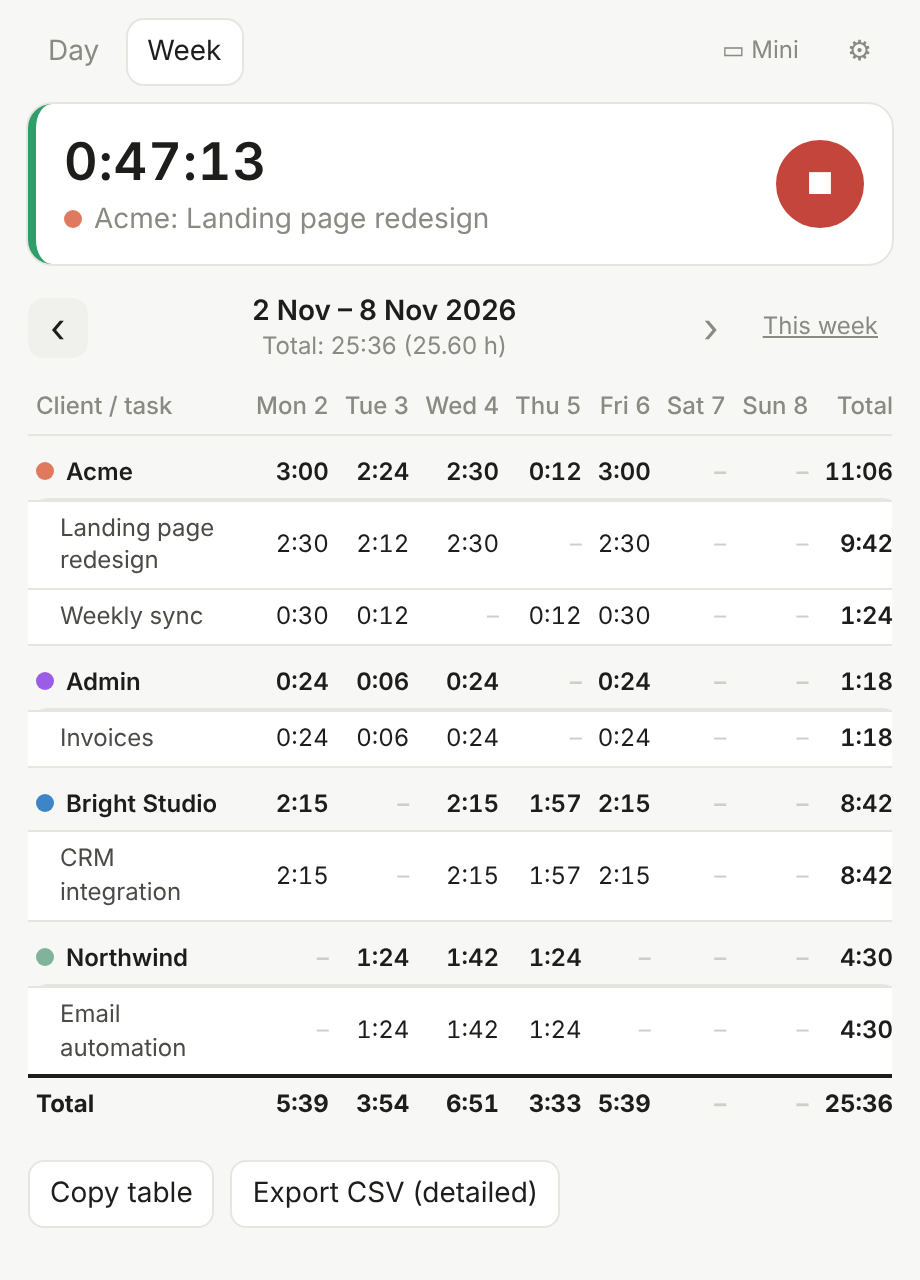
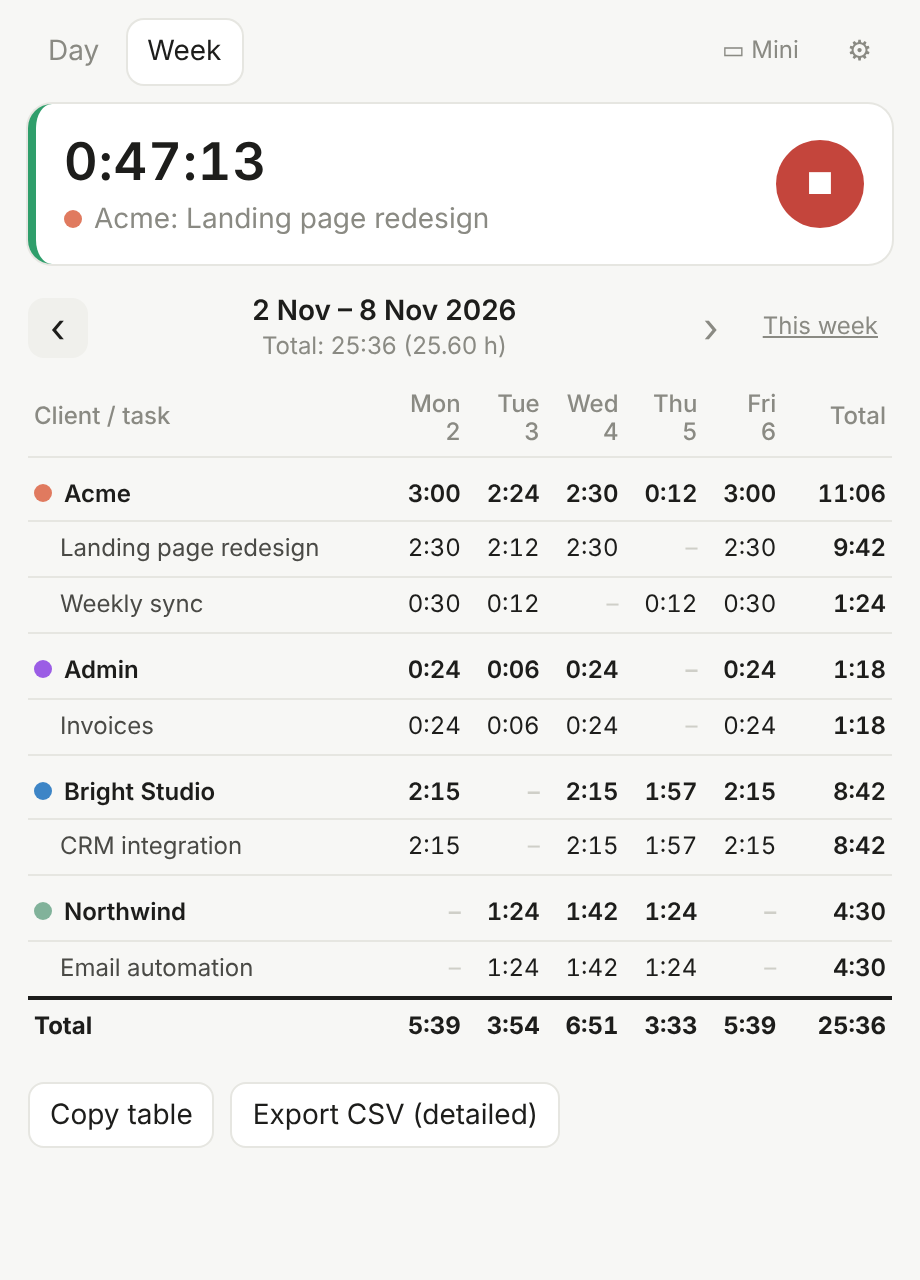
1.0.3: delete clients/tasks with confirmation; week table fits narrow window
- Delete button next to Hide, confirmation shows how much tracked time will be lost
- Week: hide empty days-off columns, sticky name and Total columns

Claude-Session: https://claude.ai/code/session_01L7nqV67o9vX3k8GaG591Vb

diff --git a/src/app.js b/src/app.js
@@ -632,27 +632,41 @@ function renderWeek() {
   const table = $('weekTable');
   table.innerHTML = '';
   const names = tr('weekdays');
-  const cell = (ms, cls = '') => el('td', { class: cls + (ms ? '' : ' zero') }, ms ? fmtDur(ms) : '–');
-  table.append(el('tr', {}, el('th', {}, tr('clientTask')),
-    days.map((k, i) => el('th', { class: 'day' + (k === todayKey() ? ' today' : ''), title: tr('openDay'), onclick: () => { viewDay = k; setView('day'); } }, `${names[i]} ${new Date(startOfKey(k)).getDate()}`)),
-    el('th', {}, tr('totalCol'))));
+  const sum = (arr) => arr.reduce((s, v) => s + v, 0);
 
+  // итоги по дням — чтобы понять, какие колонки показывать
   const totals = Array(7).fill(0);
+  for (const cid of Object.keys(rows)) for (const arr of Object.values(rows[cid])) arr.forEach((v, i) => { totals[i] += v; });
+  // выходные без записей прячем — таблица помещается в узкое окно
+  const vis = days.map((k, i) => i).filter((i) => isWorkDay(startOfKey(days[i])) || totals[i] > 0);
+  const pick = (arr) => vis.map((i) => arr[i]);
+
+  const cell = (ms, cls = '') => el('td', { class: cls + (ms ? '' : ' zero') }, ms ? fmtDur(ms) : '–');
+  const nameCell = (...kids) => el('td', { class: 'name' }, ...kids);
+  const sumCell = (ms) => cell(ms, 'sum');
+  table.append(el('tr', {}, el('th', { class: 'name' }, tr('clientTask')),
+    vis.map((i) => {
+      const k = days[i];
+      return el('th', { class: 'day' + (k === todayKey() ? ' today' : ''), title: tr('openDay'), onclick: () => { viewDay = k; setView('day'); } },
+        names[i], el('br'), String(new Date(startOfKey(k)).getDate()));
+    }),
+    el('th', { class: 'sum' }, tr('totalCol'))));
+
   const clientIds = Object.keys(rows).sort((x, y) => (client(x)?.name || '').localeCompare(client(y)?.name || ''));
   for (const cid of clientIds) {
     const c = client(cid);
     const cSum = Array(7).fill(0);
-    for (const arr of Object.values(rows[cid])) arr.forEach((v, i) => { cSum[i] += v; totals[i] += v; });
+    for (const arr of Object.values(rows[cid])) arr.forEach((v, i) => { cSum[i] += v; });
     table.append(el('tr', { class: 'client' },
-      el('td', {}, el('span', { class: 'dot', style: `background:${c?.color};margin-right:6px` }), c ? c.name : '—'),
-      cSum.map((v) => cell(v)), cell(cSum.reduce((s, v) => s + v, 0), 'sum')));
+      nameCell(el('span', { class: 'dot', style: `background:${c?.color};margin-right:6px` }), c ? c.name : '—'),
+      pick(cSum).map((v) => cell(v)), sumCell(sum(cSum))));
     const tIds = Object.keys(rows[cid]).sort((x, y) => (task(x)?.name || '').localeCompare(task(y)?.name || ''));
     for (const tid of tIds) {
       const arr = rows[cid][tid];
-      table.append(el('tr', { class: 'task' }, el('td', {}, task(tid).name), arr.map((v) => cell(v)), cell(arr.reduce((s, v) => s + v, 0), 'sum')));
+      table.append(el('tr', { class: 'task' }, nameCell(task(tid)?.name || '—'), pick(arr).map((v) => cell(v)), sumCell(sum(arr))));
     }
   }
-  table.append(el('tr', { class: 'total' }, el('td', {}, tr('grandTotal')), totals.map((v) => cell(v)), cell(totals.reduce((s, v) => s + v, 0))));
+  table.append(el('tr', { class: 'total' }, nameCell(tr('grandTotal')), pick(totals).map((v) => cell(v)), sumCell(sum(totals))));
   const total = totals.reduce((s, v) => s + v, 0);
   $('weekTotal').textContent = tr('weekTotal', { t: fmtDur(total), h: hoursDec(total) });
   $('weekEmpty').classList.toggle('hidden', clientIds.length > 0);
@@ -724,6 +738,7 @@ function renderClients() {
       el('span', { class: 'cl-meta' }, `${tr(activeTasks.length === 1 ? 'tasks1' : 'tasksN', { n: activeTasks.length })} · ${fmtDur(sum)}`),
       el('button', { class: 'small-btn', onclick: (e) => { e.stopPropagation(); c.archived = !c.archived; save(); render(); } },
         c.archived ? tr('restore') : tr('archive')),
+      el('button', { class: 'small-btn danger', title: tr('delete'), onclick: (e) => { e.stopPropagation(); deleteClient(c.id); } }, tr('delete')),
     );
     const li = el('li', { class: 'cl-item' }, head);
     if (open) {
@@ -739,6 +754,7 @@ function renderClients() {
           tin,
           el('span', { class: 'cl-meta', title: tr('lastUsedTitle') }, `${fmtDur(total[t.id] || 0)} · ${shortDate(last[t.id])}`),
           el('button', { class: 'small-btn', onclick: () => { t.archived = !t.archived; save(); render(); } }, t.archived ? tr('restore') : tr('archive')),
+          el('button', { class: 'small-btn danger', title: tr('delete'), onclick: () => deleteTask(t.id) }, tr('delete')),
         );
       };
       if (!activeTasks.length) body.append(el('div', { class: 'muted small' }, tr('noActiveTasks')));
@@ -800,6 +816,42 @@ function renderWorkDays() {
       save(); renderWorkDays();
     } }, names[i]));
   });
+}
+
+// удаление — необратимо, поэтому с подтверждением и с суммой времени, которое пропадёт
+function trackedMs(taskIds) {
+  const set = new Set(taskIds);
+  return data.entries.filter((e) => set.has(e.taskId)).reduce((s, e) => s + (entryEnd(e) - e.start), 0);
+}
+function removeTasks(taskIds) {
+  const set = new Set(taskIds);
+  const r = running();
+  data.entries = data.entries.filter((e) => !set.has(e.taskId));
+  data.tasks = data.tasks.filter((t) => !set.has(t.id));
+  for (const k of Object.keys(data.days)) data.days[k] = data.days[k].filter((id) => !set.has(id));
+  if (r && set.has(r.taskId)) afterStop();
+  if (set.has(expandedTaskId)) expandedTaskId = null;
+}
+function deleteTask(id) {
+  const t = task(id); if (!t) return;
+  const ms = trackedMs([id]);
+  const msg = ms ? tr('delTaskConfirm', { name: t.name, t: fmtDur(ms) }) : tr('delTaskEmpty', { name: t.name });
+  if (!confirm(msg)) return;
+  removeTasks([id]);
+  save(); render();
+}
+function deleteClient(id) {
+  const c = client(id); if (!c) return;
+  const ids = data.tasks.filter((t) => t.clientId === id).map((t) => t.id);
+  const ms = trackedMs(ids);
+  const msg = ms ? tr('delClientConfirm', { name: c.name, n: ids.length, t: fmtDur(ms) }) : tr('delClientEmpty', { name: c.name });
+  if (!confirm(msg)) return;
+  removeTasks(ids);
+  data.clients = data.clients.filter((x) => x.id !== id);
+  if (selectedClientId === id) selectedClientId = null;
+  if (data.lastClientId === id) data.lastClientId = null;
+  clExpanded.delete(id);
+  save(); render();
 }
 
 function saveNewClientFromList() {

diff --git a/src/i18n.js b/src/i18n.js
@@ -13,6 +13,11 @@
       updInstall: 'Restart and update', updError: 'Could not check for updates (no internet?)', updDev: 'Updates work in the installed version',
       updRestart: 'Restart now', updLater: 'Later', updReady: 'Focusly {v} is ready to install',
       updDetail: 'The app will restart. Your data stays in place. If you choose “Later”, the update installs the next time you quit.',
+      delete: 'Delete',
+      delClientConfirm: 'Delete client “{name}”?\n\nAll its tasks ({n}) and {t} of tracked time will be removed from every day and report. This cannot be undone.\n\nTip: use “Hide” to keep the history.',
+      delClientEmpty: 'Delete client “{name}”?',
+      delTaskConfirm: 'Delete task “{name}”?\n\n{t} of tracked time will be removed from every day and report. This cannot be undone.\n\nTip: use “Hide” to keep the history.',
+      delTaskEmpty: 'Delete task “{name}”?',
       tabDay: 'Day', tabWeek: 'Week', mini: '▭ Mini', miniTitle: 'Mini mode: one line on top of all windows (Ctrl+M)', settings: 'Settings',
       stop: 'Stop', start: 'Start',
       // день
@@ -83,6 +88,11 @@
       updInstall: 'Перезапустить и обновить', updError: 'Не удалось проверить обновления (нет интернета?)', updDev: 'Обновления работают в установленной версии',
       updRestart: 'Перезапустить', updLater: 'Позже', updReady: 'Focusly {v} готов к установке',
       updDetail: 'Приложение перезапустится, данные останутся на месте. Если выбрать «Позже», обновление установится при следующем выходе.',
+      delete: 'Удалить',
+      delClientConfirm: 'Удалить клиента «{name}»?\n\nВсе его задачи ({n}) и {t} записанного времени пропадут из всех дней и отчётов. Отменить будет нельзя.\n\nСовет: «Скрыть» убирает клиента из списков, но сохраняет историю.',
+      delClientEmpty: 'Удалить клиента «{name}»?',
+      delTaskConfirm: 'Удалить задачу «{name}»?\n\n{t} записанного времени пропадёт из всех дней и отчётов. Отменить будет нельзя.\n\nСовет: «Скрыть» убирает задачу из списков, но сохраняет историю.',
+      delTaskEmpty: 'Удалить задачу «{name}»?',
       tabDay: 'День', tabWeek: 'Неделя', mini: '▭ Мини', miniTitle: 'Мини-режим: одна строка поверх всех окон (Ctrl+M)', settings: 'Настройки',
       stop: 'Стоп', start: 'Старт',
       today: 'Сегодня', yesterday: 'Вчера', prevDay: 'Предыдущий день', nextDay: 'Следующий день',

diff --git a/src/styles.css b/src/styles.css
@@ -109,8 +109,9 @@ input:focus { border-color: #b9b9b1; }
 /* неделя */
 .table-wrap { overflow-x: auto; }
 .report { border-collapse: collapse; width: 100%; font-size: 12px; font-variant-numeric: tabular-nums; }
-.report th, .report td { padding: 5px 4px; text-align: right; border-bottom: 1px solid var(--line); white-space: nowrap; }
-.report th:first-child, .report td:first-child { text-align: left; white-space: normal; min-width: 110px; }
+.report th, .report td { padding: 5px 3px; text-align: right; border-bottom: 1px solid var(--line); white-space: nowrap; }
+.report th:first-child, .report td:first-child { text-align: left; white-space: normal; min-width: 96px; }
+.report th.day { line-height: 1.15; }
 .report th { color: var(--muted); font-weight: 500; }
 .report th.day { cursor: pointer; }
 .report th.day:hover { color: var(--text); text-decoration: underline; }
@@ -168,3 +169,13 @@ h3:first-child { margin-top: 6px; }
 .hint { margin-bottom: 8px; }
 .about { display: flex; align-items: center; gap: 12px; }
 .about-logo { width: 40px; height: 40px; }
+
+.small-btn.danger { color: var(--danger); border-color: transparent; background: transparent; }
+.small-btn.danger:hover { background: #fbeceb; border-color: #f0c9c6; }
+
+/* неделя: названия слева и итог справа закреплены, прокручиваются только дни */
+.report th.name, .report td.name, .report th.sum, .report td.sum { position: sticky; background: var(--bg); z-index: 1; }
+.report th.name, .report td.name { left: 0; }
+.report th.sum, .report td.sum { right: 0; padding-left: 8px; box-shadow: -6px 0 6px -6px rgba(0,0,0,.18); }
+.report tr.total td.sum { font-weight: 700; }
+.report tr.task { background: transparent; box-shadow: none; border-radius: 0; }
